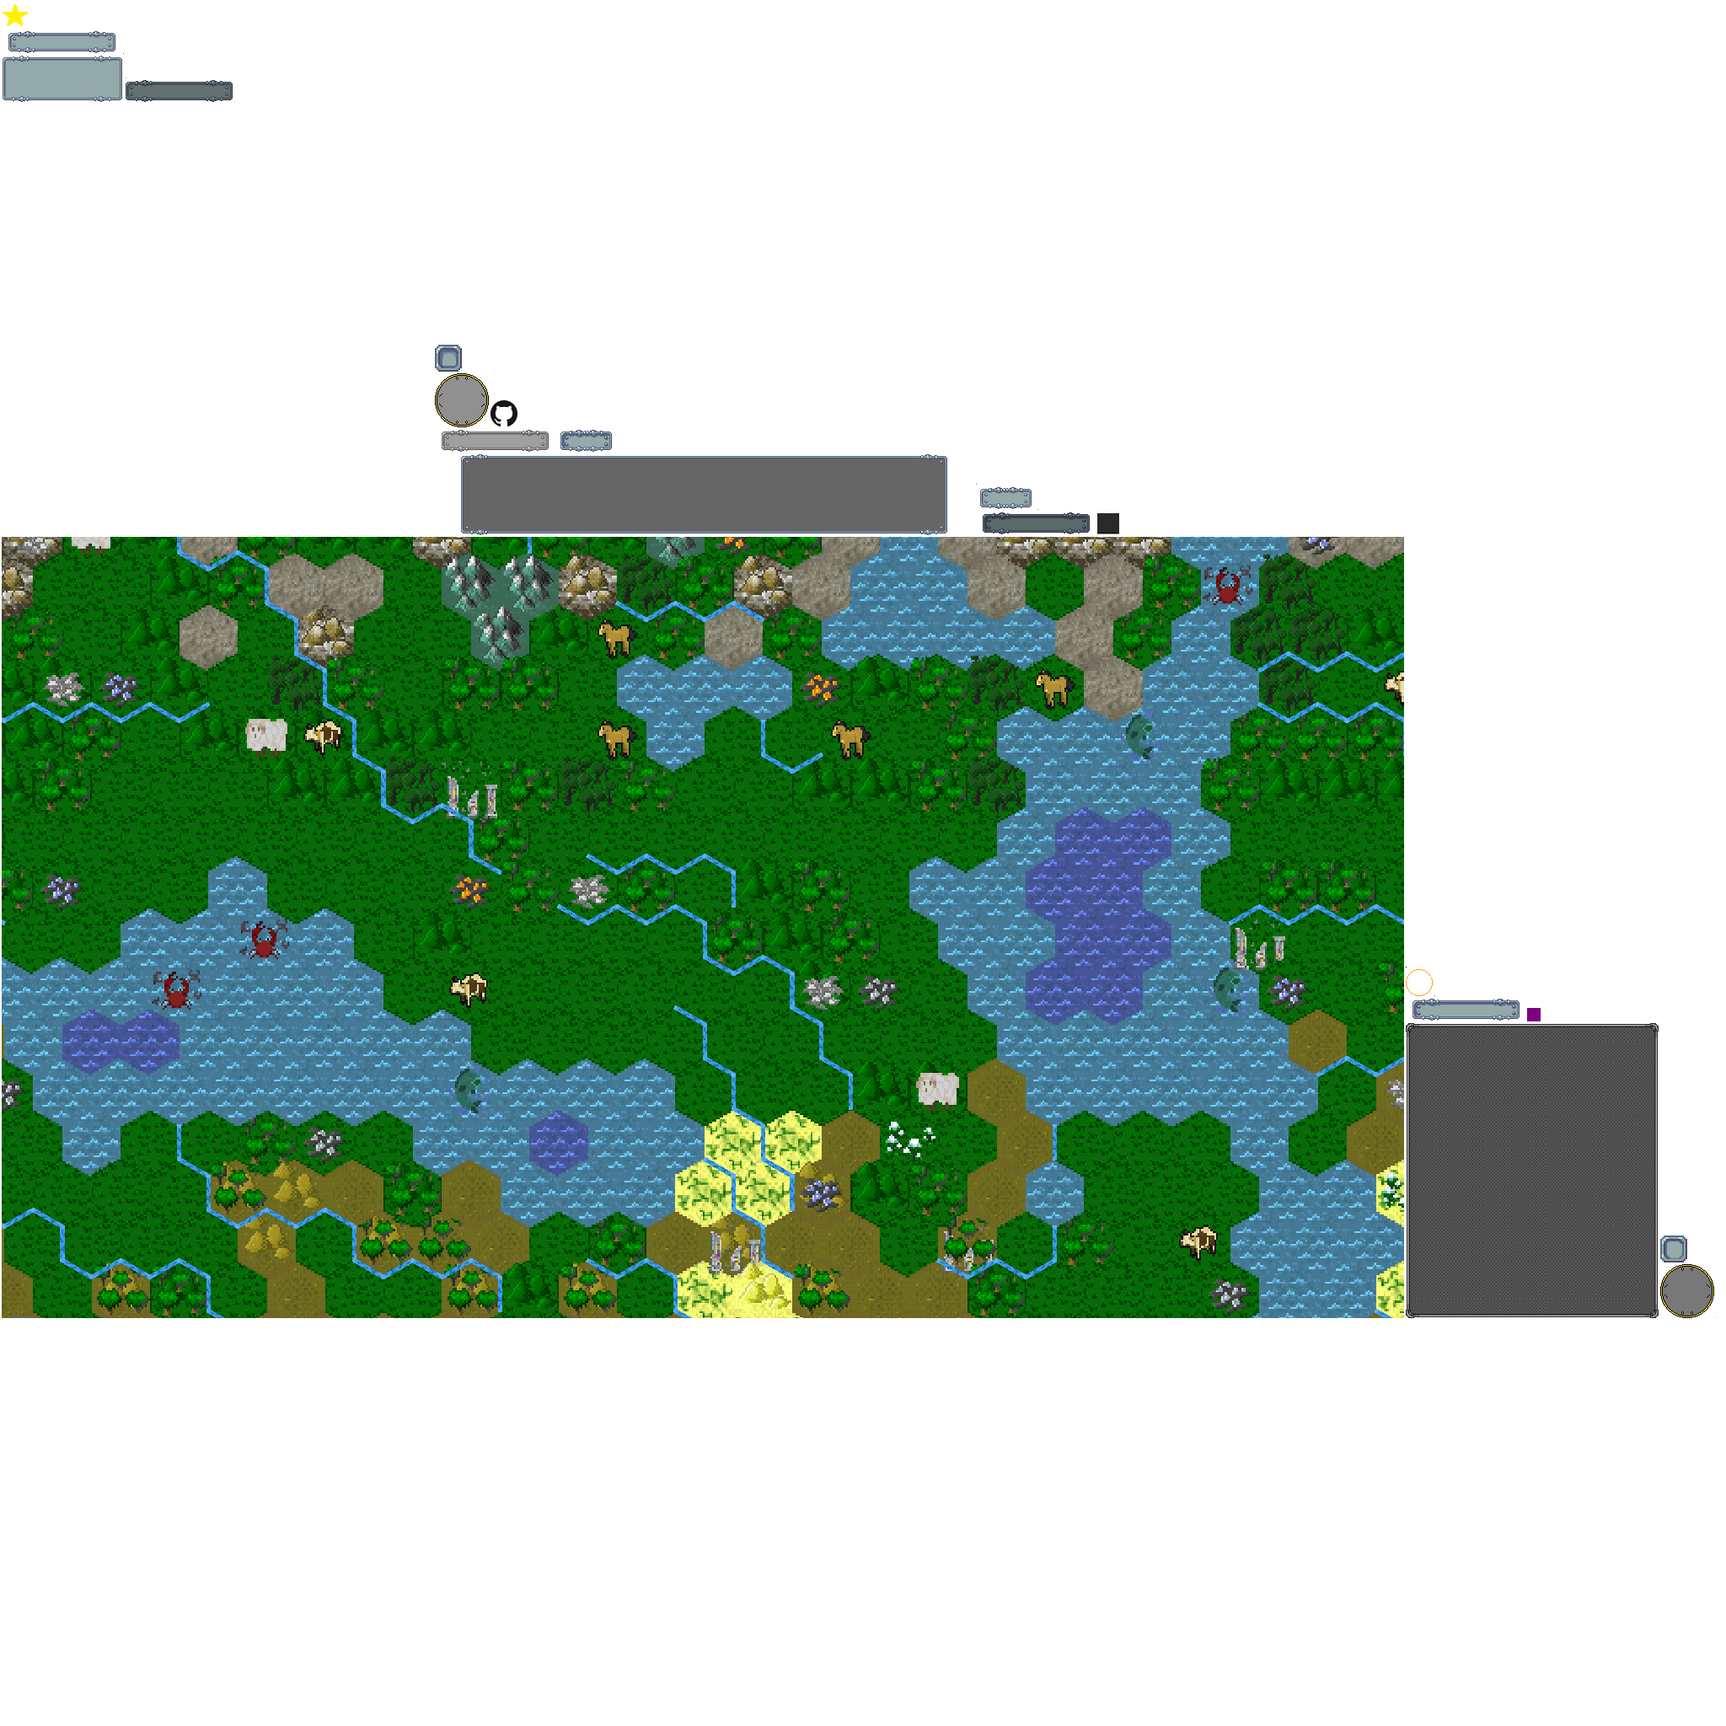
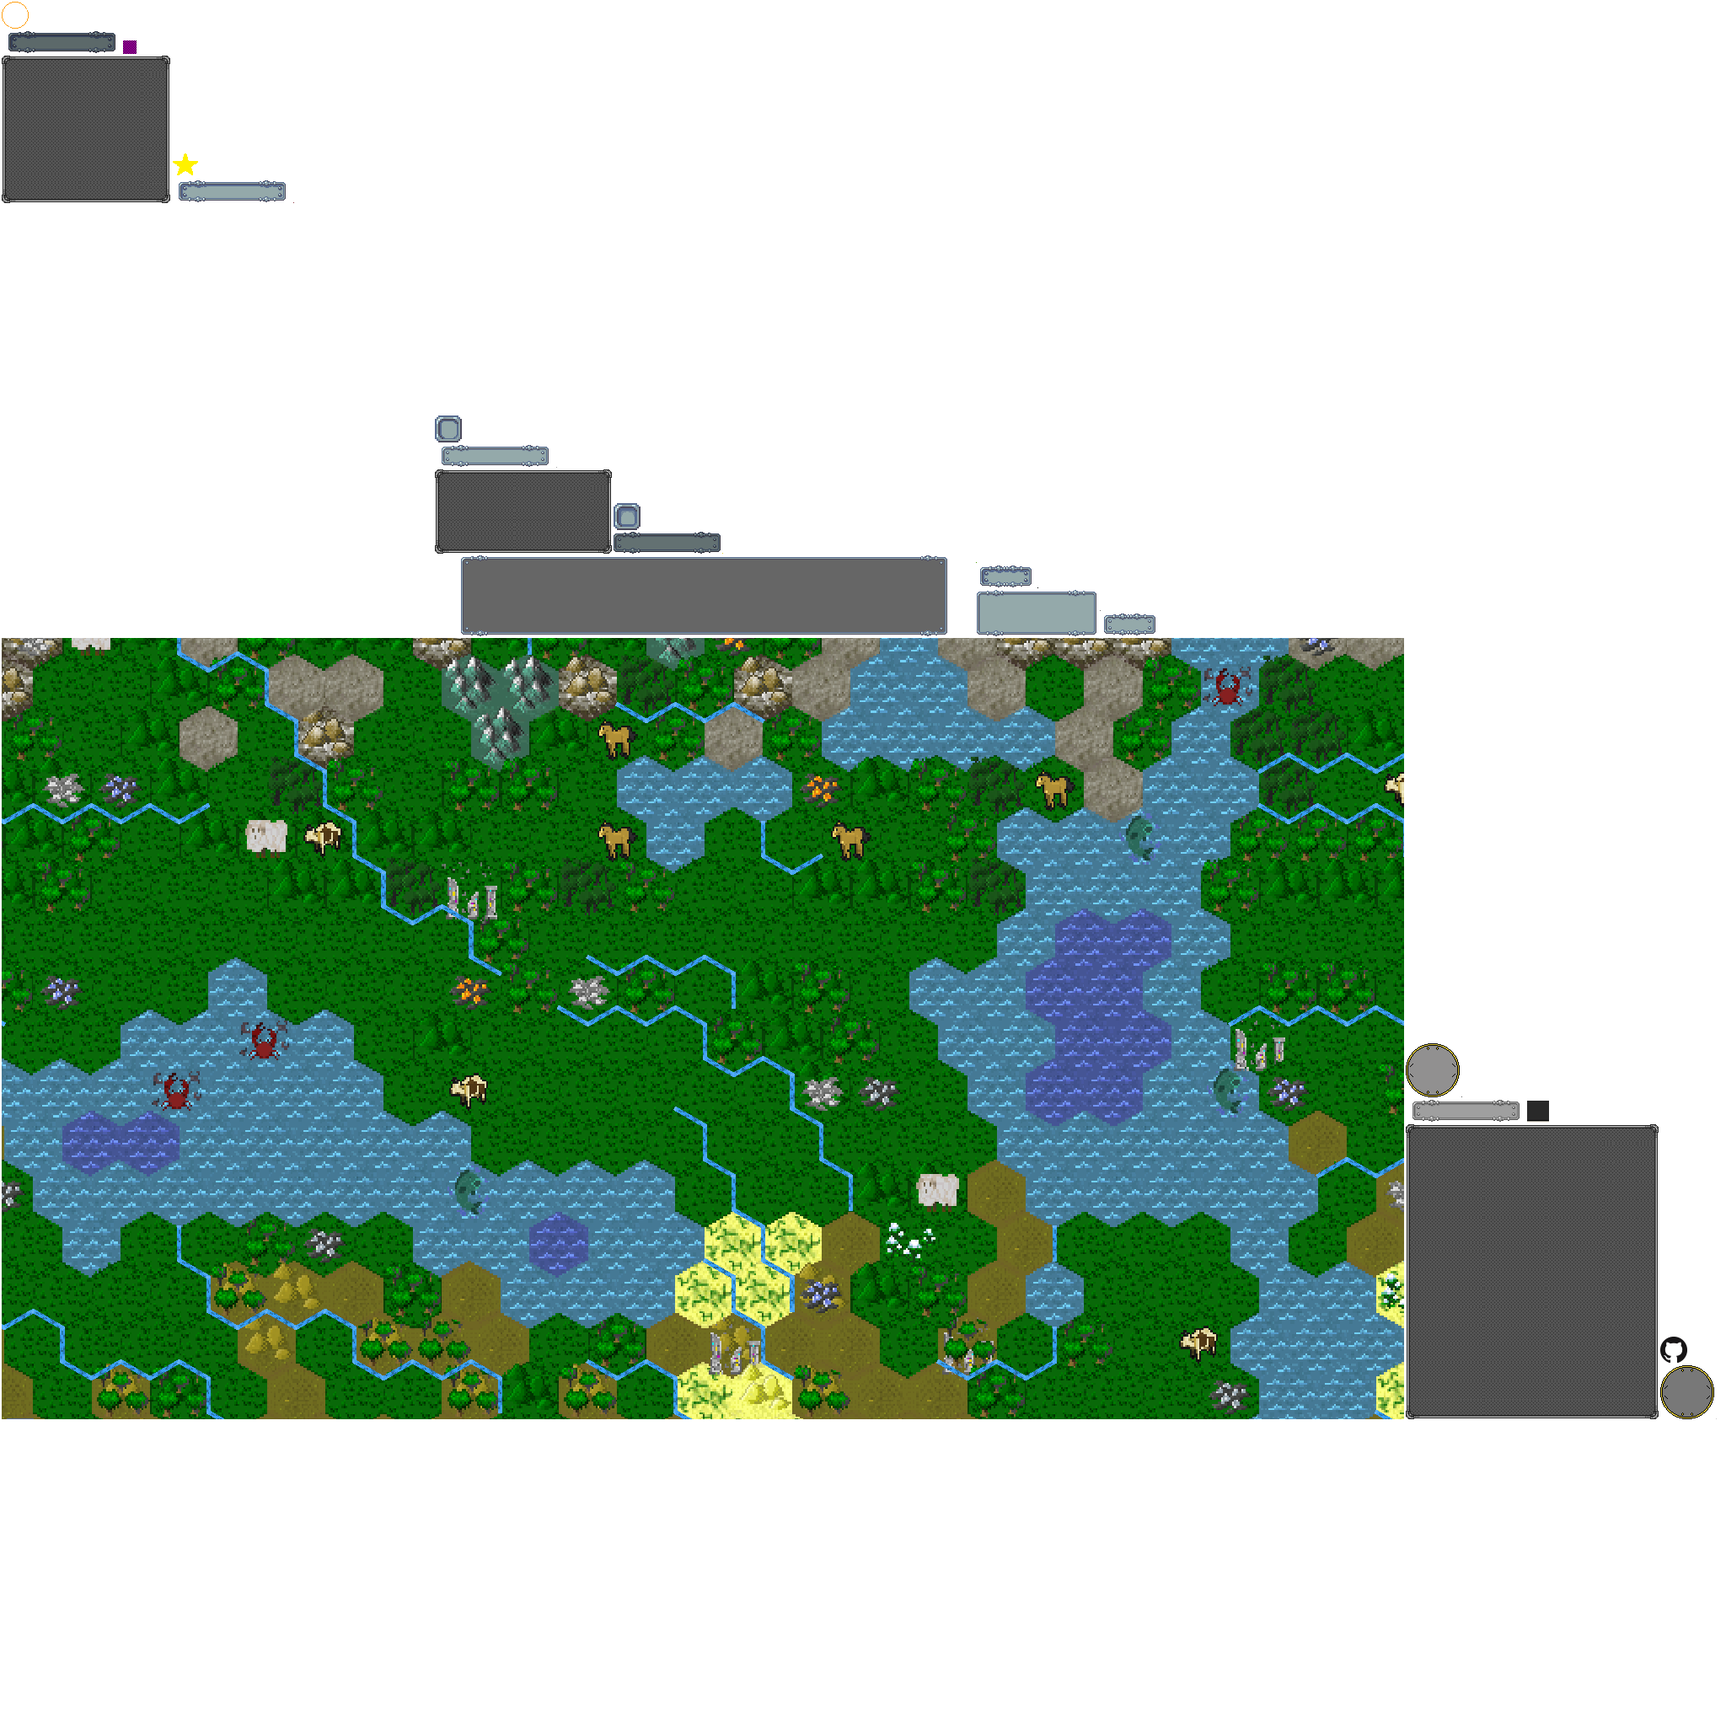
CityInfoWindow: Update UI elements in the city window

diff --git a/core/src/main/java/me/rhin/openciv/ui/game/CityStatsInfo.java b/core/src/main/java/me/rhin/openciv/ui/game/CityStatsInfo.java
@@ -29,115 +29,56 @@ public class CityStatsInfo extends Actor implements CityStatUpdateListener {
 		this.city = city;
 		this.setBounds(x, y, width, height);
 
-		this.backgroundSprite = TextureEnum.UI_BLACK.sprite();
+		this.backgroundSprite = TextureEnum.UI_POPUP_BOX_B.sprite();
 		backgroundSprite.setBounds(x, y, width, height);
 
-		float originX = 5;
-		float originY = backgroundSprite.getY() + backgroundSprite.getHeight() - 20;
 
 		this.populationIcon = TextureEnum.ICON_CITIZEN.sprite();
 		populationIcon.setSize(16, 16);
-		populationIcon.setPosition(originX, originY);
 
 		this.populationDescLabel = new CustomLabel("Citizens:");
-		originX += populationIcon.getWidth() + 5;
-		populationDescLabel.setPosition(originX, originY + populationDescLabel.getHeight() / 2);
-
 		this.populationLabel = new CustomLabel("0");
-
-		originX = 5;
-		originY -= populationIcon.getHeight() + 3;
-
 		this.populationGrowthDescLabel = new CustomLabel("Growth In:");
-		populationGrowthDescLabel.setPosition(originX, originY + populationGrowthDescLabel.getHeight() / 2);
-
 		this.populationGrowthLabel = new CustomLabel("0 Turns");
 
-		originX = 5;
 
 		this.foodIcon = TextureEnum.ICON_FOOD.sprite();
-		originY -= populationIcon.getHeight();
 		foodIcon.setSize(16, 16);
-		foodIcon.setPosition(originX, originY);
 
 		this.foodDescLabel = new CustomLabel("Food:");
-		originX += foodIcon.getWidth() + 5;
-		foodDescLabel.setPosition(originX, originY + foodDescLabel.getHeight() / 2);
-
 		this.foodLabel = new CustomLabel("+0");
 
-		originX = 5;
-
 		this.productionIcon = TextureEnum.ICON_PRODUCTION.sprite();
-		originY -= foodIcon.getHeight();
 		productionIcon.setSize(16, 16);
-		productionIcon.setPosition(originX, originY);
 
 		this.productionDescLabel = new CustomLabel("Production:");
-		originX += productionIcon.getWidth() + 5;
-		productionDescLabel.setPosition(originX, originY + productionDescLabel.getHeight() / 2);
-
 		this.productionLabel = new CustomLabel("+0");
-		originX += productionIcon.getWidth() + 2;
-
-		originX = 5;
 
 		this.goldIcon = TextureEnum.ICON_GOLD.sprite();
-		originY -= productionIcon.getHeight();
 		goldIcon.setSize(16, 16);
-		goldIcon.setPosition(originX, originY);
 
 		this.goldDescLabel = new CustomLabel("Gold:");
-		originX += goldIcon.getWidth() + 5;
-		goldDescLabel.setPosition(originX, originY + goldDescLabel.getHeight() / 2);
-
 		this.goldLabel = new CustomLabel("+0");
 
-		originX = 5;
 
 		this.scienceIcon = TextureEnum.ICON_SCIENCE.sprite();
-		originY -= goldIcon.getHeight();
 		scienceIcon.setSize(16, 16);
-		scienceIcon.setPosition(originX, originY);
 
 		this.scienceDescLabel = new CustomLabel("Science:");
-		originX += scienceIcon.getWidth() + 5;
-		scienceDescLabel.setPosition(originX, originY + scienceDescLabel.getHeight() / 2);
-
 		this.scienceLabel = new CustomLabel("+0");
 
-		originX = 5;
-
 		this.heritageIcon = TextureEnum.ICON_HERITAGE.sprite();
-		originY -= scienceIcon.getHeight();
 		heritageIcon.setSize(16, 16);
-		heritageIcon.setPosition(originX, originY);
 
 		this.heritageDescLabel = new CustomLabel("Heritage:");
-		originX += heritageIcon.getWidth() + 5;
-		heritageDescLabel.setPosition(originX, originY + heritageDescLabel.getHeight() / 2);
-
 		this.heritageLabel = new CustomLabel("+0");
 
-		originX = 5;
-
 		this.moraleIcon = TextureEnum.ICON_MORALE.sprite();
-		originY -= heritageIcon.getHeight();
 		moraleIcon.setSize(16, 16);
-		moraleIcon.setPosition(originX, originY);
 
 		this.moraleDescLabel = new CustomLabel("Morale:");
-		originX += moraleIcon.getWidth() + 5;
-		moraleDescLabel.setPosition(originX, originY + moraleDescLabel.getHeight() / 2);
-
 		this.moraleLabel = new CustomLabel("100%");
-
-		originX = 5;
-
-		originY -= moraleIcon.getHeight() + 3;
 		this.borderGrowthDescLabel = new CustomLabel("Expansion In:");
-		borderGrowthDescLabel.setPosition(originX, originY + borderGrowthDescLabel.getHeight() / 2);
-
 		this.borderGrowthLabel = new CustomLabel("0 Turns");
 
 		updateStatValues();
@@ -241,23 +182,23 @@ public class CityStatsInfo extends Actor implements CityStatUpdateListener {
 	}
 
 	private void updatePositions() {
-		float originX = 5;
-		float originY = backgroundSprite.getY() + backgroundSprite.getHeight() - 20;
+		float originX = 7;
+		float originY = backgroundSprite.getY() + backgroundSprite.getHeight() - 22;
 
 		// Population information
 		populationIcon.setPosition(originX, originY);
 		this.populationDescLabel = new CustomLabel("Citizens:");
 		originX += populationIcon.getWidth() + 5;
 		populationDescLabel.setPosition(originX, originY + populationDescLabel.getHeight() / 2);
-		originX = 5;
-		populationLabel.setPosition(getWidth() - (populationLabel.getWidth() + 2),
+		originX = 7;
+		populationLabel.setPosition(getWidth() - (populationLabel.getWidth() + 4),
 				originY + populationDescLabel.getHeight() / 2);
 		originY -= populationIcon.getHeight() + 3;
 
 		// Population growth information
 		populationGrowthDescLabel.setPosition(originX, originY + populationGrowthDescLabel.getHeight() / 2);
-		originX = 5;
-		populationGrowthLabel.setPosition(getWidth() - (populationGrowthLabel.getWidth() + 2),
+		originX = 7;
+		populationGrowthLabel.setPosition(getWidth() - (populationGrowthLabel.getWidth() + 4),
 				originY + populationGrowthDescLabel.getHeight() / 2);
 		originY -= populationIcon.getHeight();
 
@@ -265,16 +206,16 @@ public class CityStatsInfo extends Actor implements CityStatUpdateListener {
 		foodIcon.setPosition(originX, originY);
 		originX += foodIcon.getWidth() + 5;
 		foodDescLabel.setPosition(originX, originY + foodDescLabel.getHeight() / 2);
-		originX = 5;
-		foodLabel.setPosition(getWidth() - (foodLabel.getWidth() + 2), originY + foodDescLabel.getHeight() / 2);
+		originX = 7;
+		foodLabel.setPosition(getWidth() - (foodLabel.getWidth() + 4), originY + foodDescLabel.getHeight() / 2);
 		originY -= foodIcon.getHeight();
 
 		// Production information
 		productionIcon.setPosition(originX, originY);
 		originX += productionIcon.getWidth() + 5;
 		productionDescLabel.setPosition(originX, originY + productionDescLabel.getHeight() / 2);
-		originX = 5;
-		productionLabel.setPosition(getWidth() - (productionLabel.getWidth() + 2),
+		originX = 7;
+		productionLabel.setPosition(getWidth() - (productionLabel.getWidth() + 4),
 				originY + productionDescLabel.getHeight() / 2);
 		originY -= productionIcon.getHeight();
 
@@ -282,16 +223,16 @@ public class CityStatsInfo extends Actor implements CityStatUpdateListener {
 		goldIcon.setPosition(originX, originY);
 		originX += productionIcon.getWidth() + 5;
 		goldDescLabel.setPosition(originX, originY + goldDescLabel.getHeight() / 2);
-		originX = 5;
-		goldLabel.setPosition(getWidth() - (goldLabel.getWidth() + 2), originY + goldDescLabel.getHeight() / 2);
+		originX = 7;
+		goldLabel.setPosition(getWidth() - (goldLabel.getWidth() + 4), originY + goldDescLabel.getHeight() / 2);
 		originY -= goldIcon.getHeight();
 
 		// Science information
 		scienceIcon.setPosition(originX, originY);
 		originX += scienceIcon.getWidth() + 5;
 		scienceDescLabel.setPosition(originX, originY + scienceDescLabel.getHeight() / 2);
-		originX = 5;
-		scienceLabel.setPosition(getWidth() - (scienceLabel.getWidth() + 2),
+		originX = 7;
+		scienceLabel.setPosition(getWidth() - (scienceLabel.getWidth() + 4),
 				originY + scienceDescLabel.getHeight() / 2);
 		originY -= scienceIcon.getHeight();
 
@@ -299,8 +240,8 @@ public class CityStatsInfo extends Actor implements CityStatUpdateListener {
 		heritageIcon.setPosition(originX, originY);
 		originX += heritageIcon.getWidth() + 5;
 		heritageDescLabel.setPosition(originX, originY + heritageDescLabel.getHeight() / 2);
-		originX = 5;
-		heritageLabel.setPosition(getWidth() - (heritageLabel.getWidth() + 2),
+		originX = 7;
+		heritageLabel.setPosition(getWidth() - (heritageLabel.getWidth() + 4),
 				originY + heritageDescLabel.getHeight() / 2);
 		originY -= heritageIcon.getHeight();
 
@@ -308,13 +249,13 @@ public class CityStatsInfo extends Actor implements CityStatUpdateListener {
 		moraleIcon.setPosition(originX, originY);
 		originX += moraleIcon.getWidth() + 5;
 		moraleDescLabel.setPosition(originX, originY + moraleDescLabel.getHeight() / 2);
-		originX = 5;
-		moraleLabel.setPosition(getWidth() - (moraleLabel.getWidth() + 2), originY + moraleDescLabel.getHeight() / 2);
+		originX = 7;
+		moraleLabel.setPosition(getWidth() - (moraleLabel.getWidth() + 4), originY + moraleDescLabel.getHeight() / 2);
 		originY -= moraleIcon.getHeight() + 3;
 
 		// Border growth information
 		borderGrowthDescLabel.setPosition(originX, originY + borderGrowthDescLabel.getHeight() / 2);
-		borderGrowthLabel.setPosition(getWidth() - (borderGrowthLabel.getWidth() + 2),
+		borderGrowthLabel.setPosition(getWidth() - (borderGrowthLabel.getWidth() + 4),
 				originY + foodDescLabel.getHeight() / 2);
 	}
 }

diff --git a/core/src/main/java/me/rhin/openciv/ui/game/CityProductionInfo.java b/core/src/main/java/me/rhin/openciv/ui/game/CityProductionInfo.java
@@ -38,24 +38,24 @@ public class CityProductionInfo extends Actor implements SetProductionItemListen
 		this.city = city;
 		this.setBounds(x, y, width, height);
 
-		backgroundSprite = TextureEnum.UI_BLACK.sprite();
+		backgroundSprite = TextureEnum.UI_POPUP_BOX_C.sprite();
 		backgroundSprite.setBounds(x, y, width, height);
 
 		ProducingItem producingItem = city.getProducibleItemManager().getCurrentProducingItem();
 
 		if (producingItem == null)
-			productionItemSprite = TextureEnum.UI_BLACK.sprite();
+			productionItemSprite = TextureEnum.UI_CLEAR.sprite();
 		else
 			productionItemSprite = producingItem.getProductionItem().getTexture().sprite();
 
-		productionItemSprite.setBounds(x + width - 34, y + 2, 32, 32);
+		productionItemSprite.setBounds(x + width - 40, y + 8, 32, 32);
 
 		this.productionDescLabel = new CustomLabel("Producing:");
-		productionDescLabel.setPosition(x, y + height - productionDescLabel.getHeight());
+		productionDescLabel.setPosition(x + 6, y + height - productionDescLabel.getHeight() - 8);
 
 		this.productionItemNameLabel = new CustomLabel(
 				(producingItem == null ? "Nothing" : producingItem.getProductionItem().getName()));
-		productionItemNameLabel.setPosition(x, y + height - productionItemNameLabel.getHeight() - 15);
+		productionItemNameLabel.setPosition(x + 6, y + height - productionItemNameLabel.getHeight() - 25);
 
 		if (producingItem != null) {
 
@@ -91,10 +91,10 @@ public class CityProductionInfo extends Actor implements SetProductionItemListen
 	@Override
 	public void setPosition(float x, float y) {
 		backgroundSprite.setPosition(x, y);
-		productionItemSprite.setPosition(x + getWidth() - 34, y + 2);
-		productionDescLabel.setPosition(x, y + getHeight() - productionDescLabel.getHeight());
-		productionItemNameLabel.setPosition(x, y + getHeight() - productionItemNameLabel.getHeight() - 15);
-		turnsLeftLabel.setPosition(x + 5, y + productionItemSprite.getHeight() / 2 - turnsLeftLabel.getHeight() / 2);
+		productionItemSprite.setPosition(x + getWidth() - 40, y + 8);
+		productionDescLabel.setPosition(x + 6, y + getHeight() - productionDescLabel.getHeight() - 8);
+		productionItemNameLabel.setPosition(x + 6, y + getHeight() - productionItemNameLabel.getHeight() - 25);
+		turnsLeftLabel.setPosition(x + 6, y + productionItemSprite.getHeight() / 2 - turnsLeftLabel.getHeight() / 2);
 	}
 
 	@Override

diff --git a/core/src/main/java/me/rhin/openciv/ui/game/CityReligionInfo.java b/core/src/main/java/me/rhin/openciv/ui/game/CityReligionInfo.java
@@ -6,6 +6,7 @@ import java.util.Map.Entry;
 import com.badlogic.gdx.scenes.scene2d.Group;
 
 import me.rhin.openciv.Civilization;
+import me.rhin.openciv.asset.TextureEnum;
 import me.rhin.openciv.game.city.City;
 import me.rhin.openciv.game.religion.PlayerReligion;
 import me.rhin.openciv.listener.CityReligionFollowersUpdateListener;
@@ -17,7 +18,7 @@ import me.rhin.openciv.ui.label.CustomLabel;
 public class CityReligionInfo extends Group implements CityReligionFollowersUpdateListener {
 
 	private City city;
-	private BlankBackground blankBackground;
+	private ColoredBackground blankBackground;
 	private CustomLabel religionInfoDescLabel;
 	private CustomLabel atheistsLabel;
 	private ArrayList<ColoredBackground> religionIcons;
@@ -31,15 +32,15 @@ public class CityReligionInfo extends Group implements CityReligionFollowersUpda
 		this.religionIcons = new ArrayList<>();
 		this.religionFollowerLabels = new ArrayList<>();
 
-		this.blankBackground = new BlankBackground(0, 0, width, height);
+		this.blankBackground = new ColoredBackground(TextureEnum.UI_POPUP_BOX_C.sprite(), 0, 0, width, height);
 		addActor(blankBackground);
 
 		this.religionInfoDescLabel = new CustomLabel("Religion Followers: ");
-		religionInfoDescLabel.setPosition(2, height - 15);
+		religionInfoDescLabel.setPosition(6, height - 17);
 		addActor(religionInfoDescLabel);
 
 		this.atheistsLabel = new CustomLabel("None");
-		atheistsLabel.setPosition(2, height - 40);
+		atheistsLabel.setPosition(6, height - 44);
 
 		initValues();
 
@@ -57,7 +58,7 @@ public class CityReligionInfo extends Group implements CityReligionFollowersUpda
 
 		for (CustomLabel label : religionFollowerLabels)
 			removeActor(label);
-		
+
 		initValues();
 	}
 
@@ -70,7 +71,7 @@ public class CityReligionInfo extends Group implements CityReligionFollowersUpda
 			if (entrySet.getValue() > 0) {
 
 				ColoredBackground religionIcon = new ColoredBackground(
-						entrySet.getKey().getReligionIcon().getTexture().sprite(), 2, getHeight() - 40 - (22 * index),
+						entrySet.getKey().getReligionIcon().getTexture().sprite(), 6, getHeight() - 44 - (22 * index),
 						16, 16);
 				religionIcons.add(religionIcon);
 				addActor(religionIcon);

diff --git a/core/src/main/java/me/rhin/openciv/ui/window/type/CityInfoWindow.java b/core/src/main/java/me/rhin/openciv/ui/window/type/CityInfoWindow.java
@@ -69,15 +69,15 @@ public class CityInfoWindow extends AbstractWindow implements ResizeListener, Bu
 				150, 45);
 		addActor(closeWindowButton);
 
-		this.cityStatsInfo = new CityStatsInfo(city, 2, viewport.getWorldHeight() - (175 + GameOverlay.HEIGHT + 2), 200,
+		this.cityStatsInfo = new CityStatsInfo(city, 2, viewport.getWorldHeight() - (175 + GameOverlay.HEIGHT + 2), 210,
 				175);
 
 		addActor(cityStatsInfo);
 
-		this.cityReligionInfo = new CityReligionInfo(city, 2, cityStatsInfo.getY() - 105, 200, 100);
+		this.cityReligionInfo = new CityReligionInfo(city, 2, cityStatsInfo.getY() - 105, 210, 100);
 		addActor(cityReligionInfo);
 
-		this.cityProductionInfo = new CityProductionInfo(city, 2, cityReligionInfo.getY() - 105, 200, 100);
+		this.cityProductionInfo = new CityProductionInfo(city, 2, cityReligionInfo.getY() - 105, 210, 100);
 		addActor(cityProductionInfo);
 
 		this.productionContainerList = new ContainerList(0, 0, 220, 325);

diff --git a/core/src/main/java/me/rhin/openciv/Civilization.java b/core/src/main/java/me/rhin/openciv/Civilization.java
@@ -27,7 +27,7 @@ public class Civilization extends Game {
 
 	private static final Logger LOGGER = LoggerFactory.getInstance(LoggerType.LOG_TAG);
 
-	public static final boolean SHOW_FOG = false;
+	public static final boolean SHOW_FOG = true;
 	public static final boolean DEBUG_GL = false;
 	public static final boolean DEBUG_BOUNDING_BOXES = false; // NOTE: Overlay only.
 

diff --git a/core/src/main/java/me/rhin/openciv/asset/TextureEnum.java b/core/src/main/java/me/rhin/openciv/asset/TextureEnum.java
@@ -194,10 +194,13 @@ public enum TextureEnum {
 	UI_LIGHT_GRAY,
 	UI_LIGHTER_GRAY,
 	UI_DARK_GRAY,
+	UI_CLEAR,
 	UI_GITHUB,
 	UI_BACKGROUND,
 	UI_CONTAINER_BOX,
 	UI_POPUP_BOX_A,
+	UI_POPUP_BOX_B,
+	UI_POPUP_BOX_C,
 	UI_STAR,
 	UI_ERROR,
 	UI_NOTIFICATION_BOX,

diff --git a/server/src/main/java/me/rhin/openciv/server/game/options/GameOptionType.java b/server/src/main/java/me/rhin/openciv/server/game/options/GameOptionType.java
@@ -5,7 +5,7 @@ public enum GameOptionType {
 	TURN_LENGTH_OFFSET(-1),
 	SHOW_OBSERVED_TILES(0),
 	BARBARIAN_AMOUNT(5),
-	CITY_STATE_AMOUNT(0);
+	CITY_STATE_AMOUNT(6);
 
 	private int defaultValue;
 
